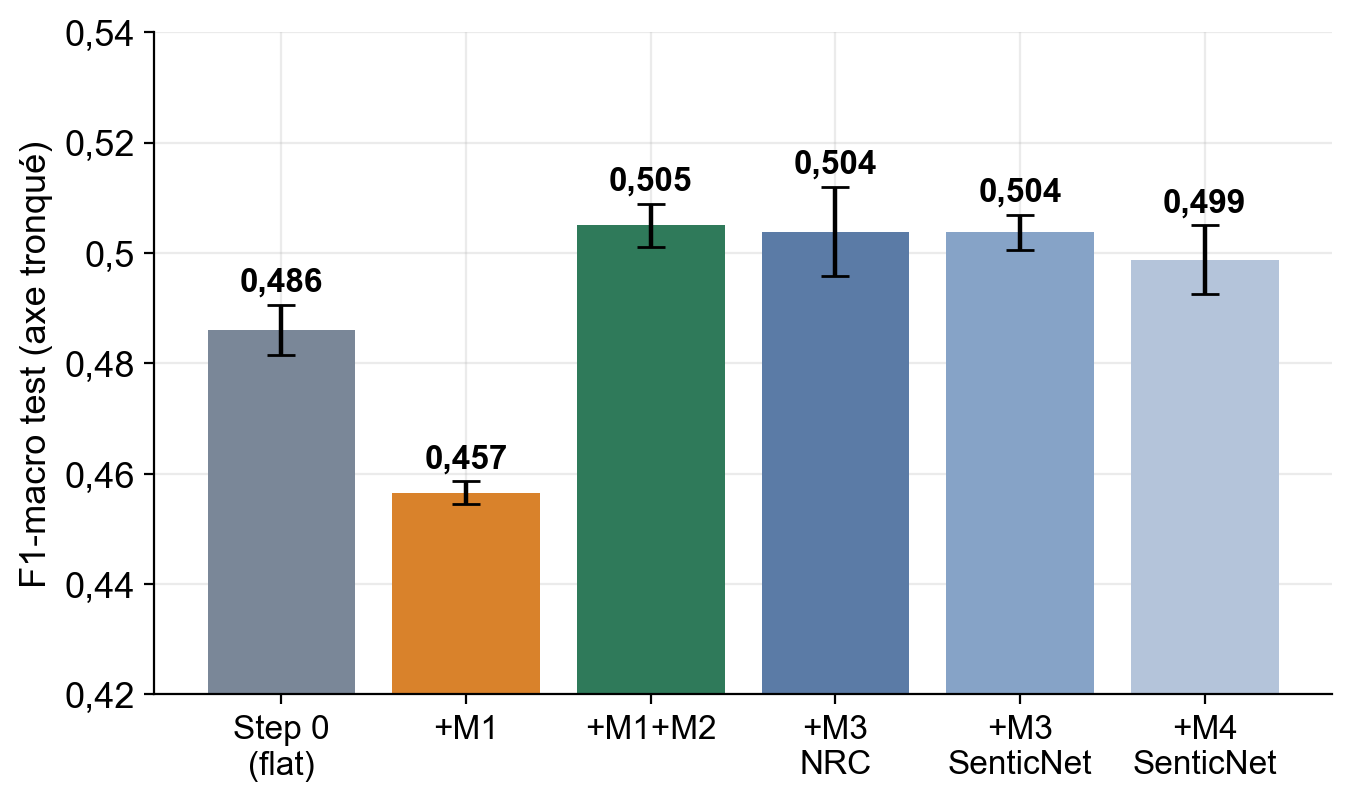
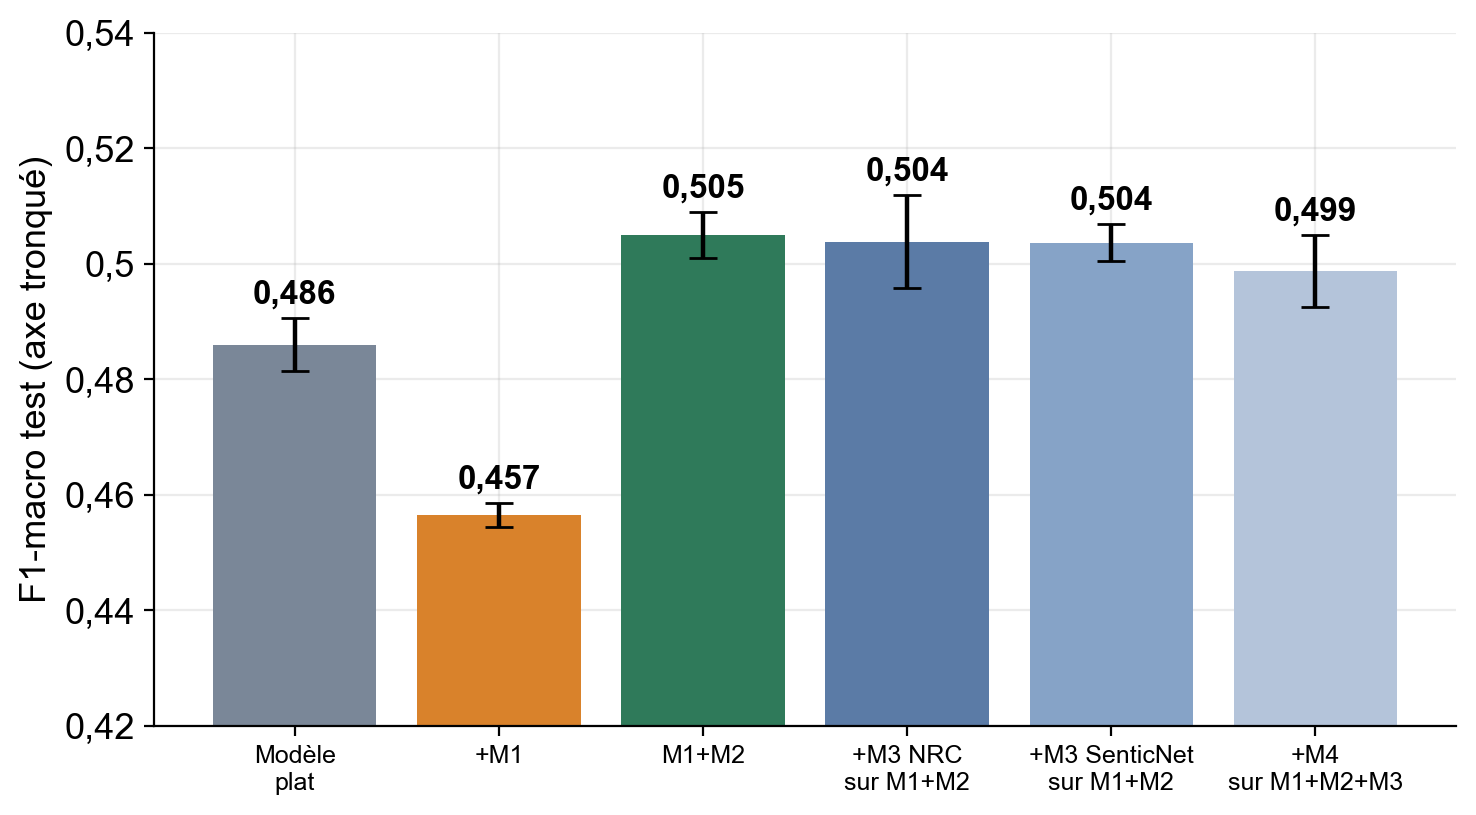
Name M3 and M4 as additions on M1+M2, including on the ablation chart.

Changed region(s): [[0.0, 0.0, 0.9941, 0.9675], [0.8388, 0.2185, 0.963, 0.4057]]

diff --git a/presentation/build_deck.py b/presentation/build_deck.py
@@ -344,8 +344,8 @@ divider(2, "Je peux maintenant montrer comment HAKE-MER est construit. D'abord l
 # ----------------------------------------------------------------------------- Architecture
 s = new("Architecture HAKE-MER : quatre modules", notes=(
     "Le chemin principal est en haut. Le texte est coupé en quatre phrases, lu par DistilBERT ou RoBERTa, puis M1 résume chaque phrase. "
-    "M2 laisse chaque émotion regarder les phrases, puis les émotions se comparent. M4 donne un poids, et on sort 28 réponses. "
-    "En dessous, M3 lit NRC ou SenticNet. La porte g vaut 0 au départ, donc le lexique n'entre pas tout de suite. "
+    "M2 laisse chaque émotion regarder les phrases, puis les émotions se comparent. M4 donne un poids sur ce même chemin, et on sort 28 réponses. "
+    "M3 ajoute le lexique dans ce M2, à partir de NRC ou de SenticNet. La porte g vaut 0 au départ, donc le lexique n'entre pas tout de suite. "
     "Si on éteint M3, on revient à M1+M2."))
 BW, BH, BY = 1.47, 1.35, 2.0
 tops = [
@@ -436,10 +436,11 @@ s.add(Box(0.55, 5.7, 12.2, 0.95, [
     fill=LORANGE, anchor="m", margins=(0.25, 0.1, 0.25, 0.1)))
 
 # ----------------------------------------------------------------------------- Step 3
-s = new("Étape 3 : le lexique, puis un poids par émotion", notes=(
+s = new("Étape 3 : sur M1+M2, le lexique, puis un poids", notes=(
+    "M3 et M4 s'ajoutent à M1+M2. "
     "M3 prend NRC, avec ses huit émotions de base, ou SenticNet, avec cinq descripteurs. "
     "Les deux passent par une porte. g vaut 0 au départ, et ce vecteur est le même pour toutes les émotions. "
-    "M4 arrive après. C'est un poids par émotion, calculé juste avant la décision."))
+    "M4 arrive après, sur ce même modèle. C'est un poids par émotion, calculé juste avant la décision."))
 s.add(Box(0.55, 1.5, 1.3, 0.4, [P("M3", 16, GREEN, True, after=0)], margins=(0, 0, 0, 0)))
 s.add(Box(0.55, 1.95, 2.45, 1.45, [
     P("NRC", 16, NAVY, True, align="c", after=3),
@@ -472,13 +473,13 @@ s = new("Ce que j'apporte dans cette architecture", notes=(
     "Je ne réinvente pas l'encodeur, ni le HAN, ni les lexiques. "
     "M1 reprend l'idée du HAN, mais l'attention porte sur les états du modèle. "
     "M2, c'est une lecture par émotion, puis un échange entre les 28 vecteurs. La décision se fait émotion par émotion. "
-    "Pour M3, NRC et SenticNet sont publiés. La porte, et la table vers les 28 classes, c'est ce mémoire. "
-    "M4, c'est un poids par émotion, juste avant la décision."))
+    "M3 s'ajoute à M1+M2. NRC et SenticNet sont publiés. La porte, et la table vers les 28 classes, c'est ce mémoire. "
+    "M4 s'ajoute ensuite, sur ce même modèle. C'est un poids par émotion, juste avant la décision."))
 built = [
     ("M1", GREEN, LGREEN, "L'idée vient du HAN. Le réseau récurrent n'est pas repris : l'attention porte sur les états du modèle."),
     ("M2", (0x5B, 0x7B, 0xA6), LNAVY, "Une lecture par émotion, puis un échange entre les 28 vecteurs. La décision se fait émotion par émotion."),
-    ("M3", GREEN, LGREEN, "NRC et SenticNet sont publiés. La porte, et la table vers les 28 classes, sont de ce mémoire."),
-    ("M4", VIOLET, LILAC, "Un poids par émotion, calculé juste avant la décision."),
+    ("M3", GREEN, LGREEN, "Ajouté à M1+M2. NRC et SenticNet sont publiés. La porte, et la table vers les 28 classes, sont de ce mémoire."),
+    ("M4", VIOLET, LILAC, "Ajouté à M1+M2+M3. Un poids par émotion, calculé juste avant la décision."),
 ]
 for i, (name, accent, fill, line) in enumerate(built):
     y = 1.5 + i * 1.22
@@ -490,18 +491,18 @@ s = new("Chaque question a une comparaison", notes=(
     "Chaque question a une comparaison. "
     "Séparer le commentaire en phrases se teste avec M1, contre le modèle plat. "
     "Relier les émotions entre elles se teste avec M2, contre M1 seul. "
-    "Un lexique externe se teste avec M3, contre M1+M2. "
-    "Un poids par émotion, juste avant la décision, se teste avec M4, contre M3."))
+    "Un lexique externe, c'est M1+M2 avec M3, comparé à M1+M2 seul. "
+    "Un poids par émotion, c'est ce même modèle avec M4 en plus, comparé à M1+M2 avec M3."))
 for i, (q, cmp, accent, fill) in enumerate([
     ("Séparer le commentaire en phrases", "M1, contre le modèle plat", GREEN, LGREEN),
     ("Relier les émotions entre elles", "M2, contre M1 seul", (0x5B, 0x7B, 0xA6), LNAVY),
-    ("Un lexique externe", "M3, contre M1+M2", GREEN, LGREEN),
-    ("Un poids par émotion, juste avant la décision", "M4, contre M3", VIOLET, LILAC),
+    ("Un lexique externe", "M1+M2+M3, contre M1+M2", GREEN, LGREEN),
+    ("Un poids par émotion, juste avant la décision", "M1+M2+M3+M4, contre M1+M2+M3", VIOLET, LILAC),
 ]):
     y = 1.55 + i * 1.28
     s.add(Box(0.55, y, 0.7, 1.1, [P(str(i + 1), 26, accent, True, align="c", after=0)], fill=fill, anchor="m"))
     s.add(Box(1.4, y, 6.55, 1.1, [P(q, 18, NAVY, True, after=0)], anchor="m", margins=(0.18, 0.08, 0.12, 0.08)))
-    s.add(Box(8.15, y, 4.55, 1.1, [P(cmp, 18, accent, True, align="c", after=0)], fill=fill, anchor="m", margins=(0.12, 0.08, 0.12, 0.08)))
+    s.add(Box(8.15, y, 4.55, 1.1, [P(cmp, 16, accent, True, align="c", after=0)], fill=fill, anchor="m", margins=(0.12, 0.08, 0.12, 0.08)))
 
 # ----------------------------------------------------------------------------- 04 Expérimentation
 divider(3, "Le protocole est le même pour tous les modules. L'ablation dit ensuite ce que chacun change, d'abord sur DistilBERT, puis sur RoBERTa.")
@@ -509,13 +510,13 @@ divider(3, "Le protocole est le même pour tous les modules. L'ablation dit ensu
 # ----------------------------------------------------------------------------- Protocol
 s = new("Protocole d'évaluation", notes=(
     "Tous les tests utilisent GoEmotions, avec le découpage des auteurs, et les deux modèles, DistilBERT et RoBERTa. "
-    "On part du modèle plat, puis j'ajoute les modules un par un. "
+    "On part du modèle plat, puis j'ajoute les modules un par un. M3 et M4 s'ajoutent à M1+M2. "
     "Le score est le F1-macro au test, et pour chaque essai je garde la meilleure époque en validation. "
     "J'ai fait trois essais. Les réglages à droite sont les mêmes pour tout le monde."))
 s.add(Box(0.6, 1.55, 6.3, 5.2, [
     P("**Dataset** : GoEmotions, 28 classes, découpage des auteurs", 18, bullet=True, after=12),
     P("**Modèles** : DistilBERT-base et RoBERTa-base", 18, bullet=True, after=12),
-    P("**Ablation** : modèle plat, puis +M1, +M1+M2, +M3, +M4", 18, bullet=True, after=12),
+    P("**Ablation** : plat, +M1, M1+M2, puis M1+M2+M3, puis M1+M2+M3+M4", 18, bullet=True, after=12),
     P("**Score** : F1-macro au test. L'époque retenue est la meilleure en validation, pour chaque graine.", 18, bullet=True, after=12),
     P("**Trois essais** : graines 42, 123 et 456. Moyenne et écart-type, pas un test statistique.", 18, bullet=True, after=0)],
     margins=(0, 0, 0, 0)))
@@ -535,11 +536,11 @@ s.add(Table(7.2, 1.6, [2.6, 2.9], [
 s = new("Étude d'ablation : DistilBERT-base", notes=(
     "M1 seul recule. On passe de 0,486 à 0,457. "
     "Quand j'ajoute M2, on monte à 0,505. C'est la seule étape qui dépasse clairement le modèle de départ. "
-    "M3 et M4 restent en dessous de M1+M2."))
+    "Ajouter M3, puis M4, sur ce M1+M2 laisse le score entre 0,499 et 0,504."))
 s.add(*fpic(FIG / "ablation_distilbert.png", 0.6, 1.5, 7.7, "F1-macro au test, DistilBERT, moyenne ± écart-type sur 3 essais. L'axe commence à 0,42."))
 s.add(*card(8.6, 1.6, 4.1, 1.55, "M1 seul recule", [f"{fr(mean(ROWS['m1'][0]))} contre {fr(mean(ROWS['step0'][0]))}, le modèle plat"], accent=ORANGE, size=17))
 s.add(*card(8.6, 3.3, 4.1, 1.55, "M1+M2 progresse", [f"{fr(mean(ROWS['m12'][0]))}, soit +{fr(gain_db)} sur le modèle plat"], accent=GREEN, size=17))
-s.add(*card(8.6, 5.0, 4.1, 1.75, "M3 et M4 sans gain", ["0,499 à 0,504, aucun ne dépasse M1+M2"], accent=(0x5B, 0x7B, 0xA6), size=17))
+s.add(*card(8.6, 5.0, 4.1, 1.75, "M3 et M4 sur M1+M2", ["0,499 à 0,504, le score ne monte pas"], accent=(0x5B, 0x7B, 0xA6), size=17))
 
 # ----------------------------------------------------------------------------- 9. Results RoBERTa
 s = new("La même ablation sur RoBERTa-base", notes=(
@@ -606,18 +607,18 @@ s = new("Bilan : une seule question est soutenue", notes=(
     "Je reviens aux quatre questions. "
     "Séparer le commentaire en phrases n'est pas soutenu, parce que M1 baisse. "
     "Relier les émotions entre elles est soutenu, parce que M1+M2 monte. "
-    "Un lexique externe, et un poids par émotion, restent prudents. Il n'y a pas de gain stable. "
-    "Le modèle que je retiens, c'est M1+M2. NRC avec M4 est un peu plus haut, mais seulement sur DistilBERT."))
+    "Ajouter le lexique à M1+M2, puis le poids par-dessus, ne donne pas un gain stable. "
+    "Le modèle que je retiens, c'est M1+M2. M1+M2 avec NRC et M4 est un peu plus haut, mais seulement sur DistilBERT."))
 assert abs((mean(ROWS["m12"][0]) - mean(ROWS["m1"][0])) - 0.048) < 0.0015 and abs((mean(ROWS["m12"][1]) - mean(ROWS["m1"][1])) - 0.041) < 0.0015
-s.add(Table(0.55, 1.55, [2.55, 2.35, 2.7, 2.45, 2.05], [
+s.add(Table(0.55, 1.55, [2.3, 2.85, 2.55, 2.35, 2.05], [
     ["Question", "Comparaison", "DistilBERT", "RoBERTa", "Verdict"],
     [Cell("Séparer le commentaire en phrases", True), "Plat contre +M1", f"{D('step0')} contre {D('m1')}", f"{R('step0')} contre {R('m1')}", Cell("Non soutenue", True, fill=LORANGE)],
     [Cell("Relier les émotions entre elles", True), "+M1 contre +M1+M2", f"{D('m1')} contre {D('m12')}", f"{R('m1')} contre {R('m12')}", Cell("Soutenue", True, fill=LGREEN)],
-    [Cell("Un lexique externe", True), "+M1+M2 contre +M3", f"{D('m12')} contre NRC {D('nrc')} ; SenticNet {D('sent')}", f"{R('m12')} contre NRC {R('nrc')} ; SenticNet {R('sent')}", Cell("Prudente : pas de gain stable", True, fill=LIGHT)],
-    [Cell("Un poids par émotion", True), "+M3 contre +M4, SenticNet", f"{D('sent')} contre {D('m4s')}", f"{R('sent')} contre {R('m4s')}", Cell("Prudente : M4 non retenu", True, fill=LIGHT)],
+    [Cell("Un lexique externe", True), "M1+M2+M3 contre M1+M2", f"{D('m12')} contre NRC {D('nrc')} ; SenticNet {D('sent')}", f"{R('m12')} contre NRC {R('nrc')} ; SenticNet {R('sent')}", Cell("Prudente : pas de gain stable", True, fill=LIGHT)],
+    [Cell("Un poids par émotion", True), "M1+M2+M3+M4 contre M1+M2+M3, SenticNet", f"{D('sent')} contre {D('m4s')}", f"{R('sent')} contre {R('m4s')}", Cell("Prudente : M4 non retenu", True, fill=LIGHT)],
 ], size=13, min_row=0.72))
 s.add(Box(0.6, 5.95, 12.1, 0.85, [P("Modèle retenu, d'après la validation : **M1+M2**, sur DistilBERT comme sur RoBERTa. "
-                                    "NRC avec M4 fait 0,510 ± 0,003 sur DistilBERT seulement. Ce test n'existe pas pour RoBERTa.", 16, NAVY, after=0)],
+                                    "M1+M2 avec NRC et M4 fait 0,510 ± 0,003 sur DistilBERT seulement. Ce test n'existe pas pour RoBERTa.", 16, NAVY, after=0)],
           fill=LNAVY, anchor="m", margins=(0.3, 0.08, 0.3, 0.08)))
 
 # ----------------------------------------------------------------------------- 04 Conclusion
@@ -626,7 +627,7 @@ divider(4, "Je replace d'abord ces scores par rapport aux autres travaux. Ensuit
 # ----------------------------------------------------------------------------- Discussion and limits
 s = new("Discussion : comparaison et limites", notes=(
     "0,46 et 0,473 sont des repères. Les modèles et les réglages ne sont pas les mêmes, donc je ne les utilise pas comme un classement. "
-    "À droite, les limites du travail. Une seule dataset, trois essais, les mêmes réglages pour tous, et NRC avec M4 n'a pas été testé sur RoBERTa."))
+    "À droite, les limites du travail. Une seule dataset, trois essais, les mêmes réglages pour tous, et M1+M2 avec NRC et M4 n'a pas été testé sur RoBERTa."))
 s.add(Box(0.6, 1.5, 5.9, 0.45, [P("Comparaison avec la littérature (F1-macro)", 18, NAVY, True, after=0)], margins=(0, 0, 0, 0)))
 s.add(Table(0.6, 2.05, [3.3, 2.6], [
     ["Travail", "F1-macro"],
@@ -643,13 +644,13 @@ s.add(*card(6.9, 1.55, 5.8, 4.4, "Limites du travail", [
     "Quatre époques, et les mêmes réglages pour tous",
     "Un seul seuil de décision : 0,5",
     "Textes coupés en 4 phrases de 32 tokens",
-    "NRC + M4 non testé sur RoBERTa"], accent=ORANGE, size=17, title_size=20))
+    "M1+M2 avec NRC et M4, pas sur RoBERTa"], accent=ORANGE, size=17, title_size=20))
 
 # ----------------------------------------------------------------------------- 15. Conclusion
 s = new("Contributions, conclusion et perspectives", notes=(
     "Je retiens M1+M2, sur DistilBERT et sur RoBERTa. "
     "Le gain mesuré est celui de la pile. Si on enlève l'encodeur entre émotions, le score baisse. "
-    "M3 et M4 n'ajoutent pas un gain stable, et le F1-macro ne dit pas quelles émotions bougent. "
+    "Ajoutés à M1+M2, M3 et M4 ne donnent pas un gain stable, et le F1-macro ne dit pas quelles émotions bougent. "
     "Pour la suite, je travaillerais les classes rares, un lexique lié à chaque émotion, d'autres datasets, et d'autres modèles, au même budget."))
 s.add(Box(0.55, 1.55, 4.3, 3.15, [
     P("On retient", 16, MINT, True, after=4),
@@ -660,7 +661,7 @@ s.add(Box(5.05, 1.55, 7.7, 1.5, [
     P("Le gain mesuré est celui de la pile. Enlever l'encodeur entre émotions le fait baisser.", 16, INK, after=0)],
     fill=LGREEN, anchor="m", margins=(0.22, 0.12, 0.22, 0.12)))
 s.add(Box(5.05, 3.2, 7.7, 1.5, [
-    P("M3 et M4 n'ajoutent pas un gain stable. Le F1-macro ne dit pas quelles émotions bougent.", 16, INK, after=0)],
+    P("Ajoutés à M1+M2, M3 et M4 ne donnent pas un gain stable. Le F1-macro ne dit pas quelles émotions bougent.", 16, INK, after=0)],
     fill=LORANGE, anchor="m", margins=(0.22, 0.12, 0.22, 0.12)))
 persp = [
     ("01", "Classes rares, et un seuil par émotion"),

diff --git a/presentation/figures.py b/presentation/figures.py
@@ -78,12 +78,12 @@ def fig_goemotions_cardinality() -> None:
 
 def fig_ablation() -> None:
     specs = [
-        ("Step 0\n(flat)", "baseline_plm_distilbert_base_uncased_campaign.json", GRAY),
+        ("Modèle\nplat", "baseline_plm_distilbert_base_uncased_campaign.json", GRAY),
         ("+M1", "m1_distilbert_base_uncased_campaign.json", ORANGE),
-        ("+M1+M2", "m1_m2_distilbert_base_uncased_campaign.json", GREEN),
-        ("+M3\nNRC", "m1_m2_m3_nrc_distilbert_base_uncased_campaign.json", BLUE1),
-        ("+M3\nSenticNet", "m1_m2_m3_senticnet_distilbert_base_uncased_campaign.json", BLUE2),
-        ("+M4\nSenticNet", "m1_m2_m3_senticnet_m4_distilbert_base_uncased_campaign.json", BLUE3),
+        ("M1+M2", "m1_m2_distilbert_base_uncased_campaign.json", GREEN),
+        ("+M3 NRC\nsur M1+M2", "m1_m2_m3_nrc_distilbert_base_uncased_campaign.json", BLUE1),
+        ("+M3 SenticNet\nsur M1+M2", "m1_m2_m3_senticnet_distilbert_base_uncased_campaign.json", BLUE2),
+        ("+M4\nsur M1+M2+M3", "m1_m2_m3_senticnet_m4_distilbert_base_uncased_campaign.json", BLUE3),
     ]
     labels, means, stds, cols = [], [], [], []
     for lab, fn, col in specs:
@@ -93,12 +93,12 @@ def fig_ablation() -> None:
         stds.append(sd)
         cols.append(col)
     x = np.arange(len(labels))
-    fig, ax = plt.subplots(figsize=(7.6, 4.3))
+    fig, ax = plt.subplots(figsize=(8.4, 4.5))
     ax.bar(x, means, yerr=stds, capsize=5, color=cols, edgecolor="none", error_kw={"elinewidth": 1.6})
     for xi, mu, sd in zip(x, means, stds):
         ax.text(xi, mu + sd + 0.0025, fr(mu), ha="center", fontsize=12, fontweight="bold")
     ax.set_xticks(x)
-    ax.set_xticklabels(labels, fontsize=12)
+    ax.set_xticklabels(labels, fontsize=9)
     ax.set_ylim(0.42, 0.54)
     ax.set_ylabel("F1-macro test (axe tronqué)")
     commas(ax)
